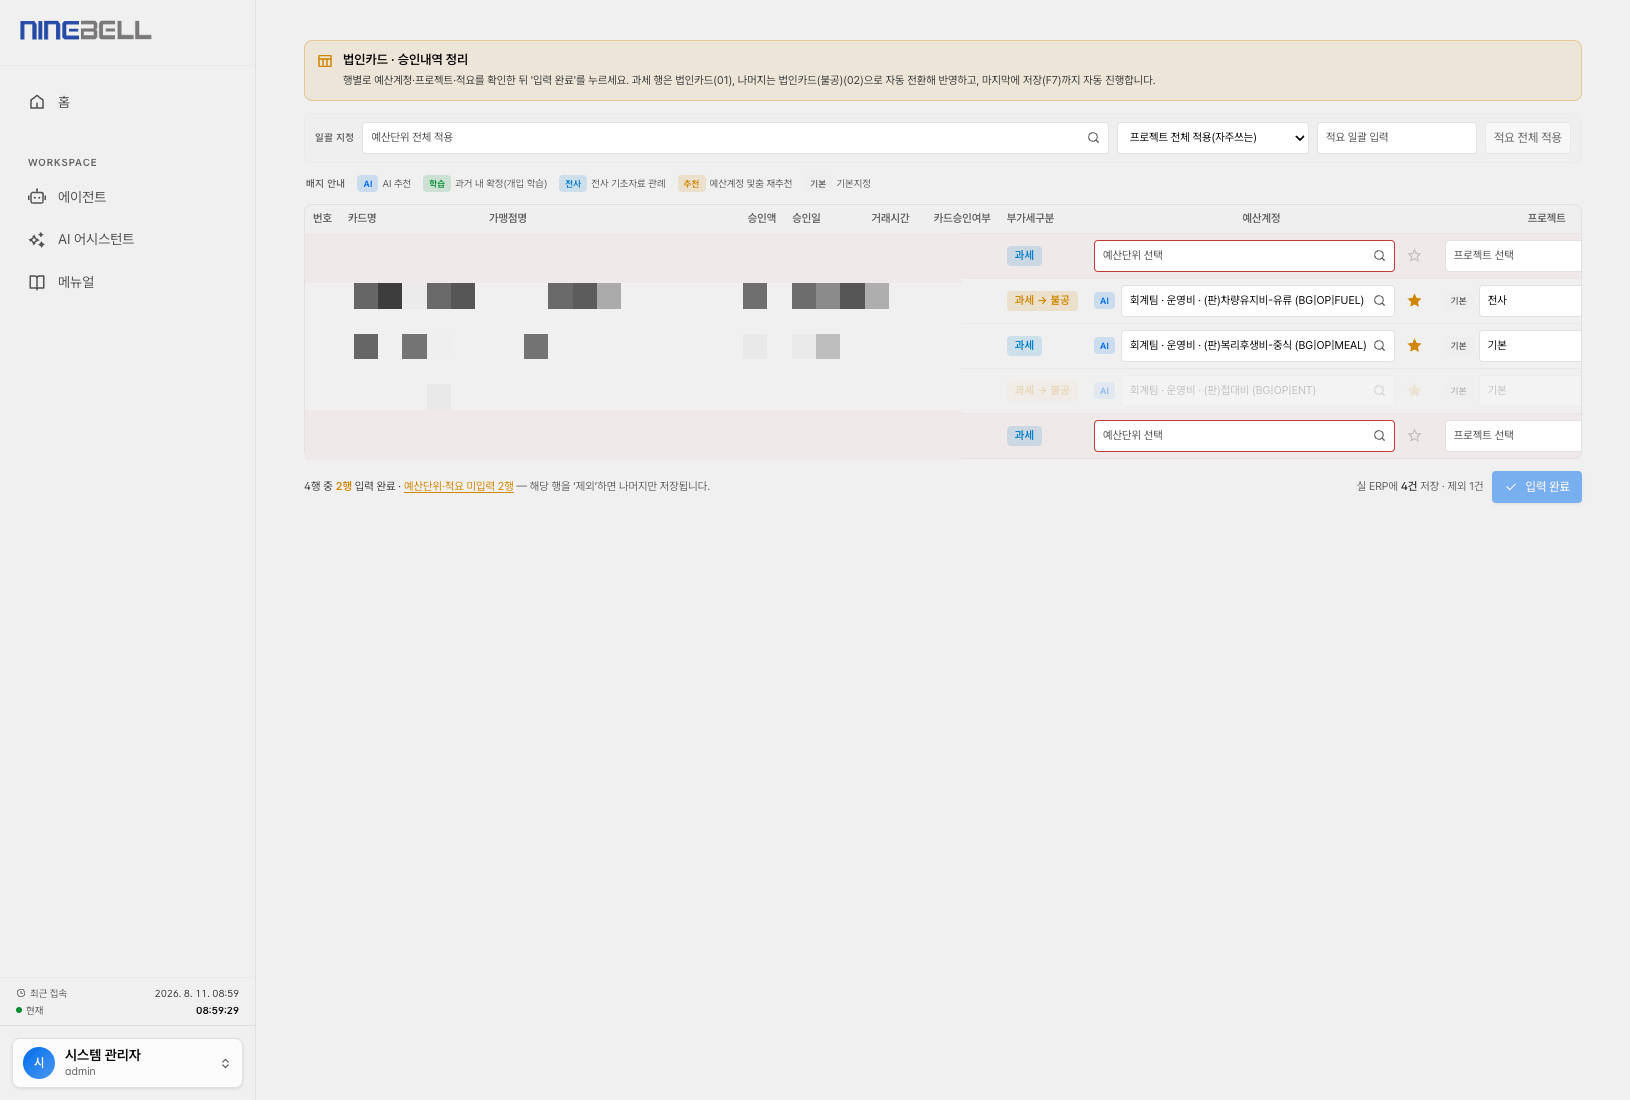
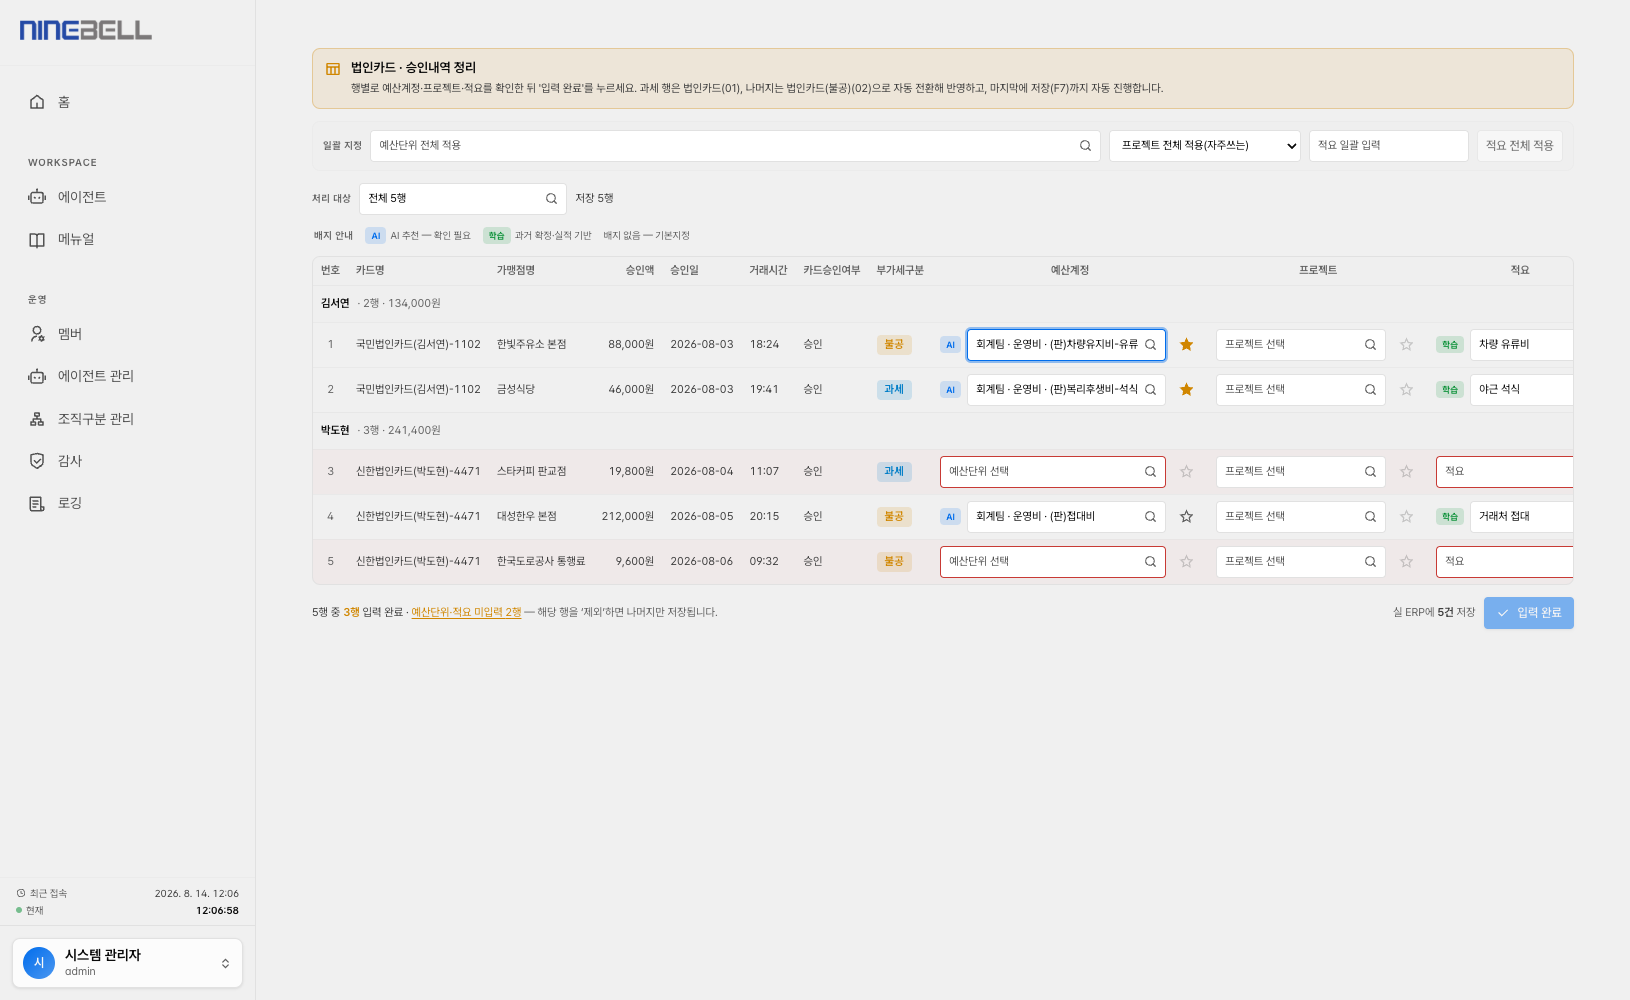
fix(manual): 법인카드 그리드 스크린샷을 더미 데이터로 재촬영 + 그리드 제목 중복 해소
스크린샷
- 종전 이미지는 실 거래 PII 를 픽셀화한 것이라 카드명·가맹점·금액·일자가 전부 검은
  블록이었다(사용자 리포트: 이상해 보인다). 더미 데이터로 같은 화면을 재현해 다시 찍어
  가릴 것이 없다 — 이름·가맹점·카드번호 전부 가공값이다.
- Next dev 인디케이터(좌하단)를 숨긴 상태로 촬영.
- 규격도 다른 자산과 맞췄다(1630×1100 → 1630×1000 — 이 파일만 예외였다).
- 현행 UI 가 함께 반영된다: 배지 5종 → AI·학습 2종, 카드 소유자별 처리 대상 바.

그리드 제목 중복
- 프론트 GridHeader 가 '{title} · 승인내역 정리' 를 그리는데 백엔드도 title 에
  '승인내역 정리' 를 실어 **'승인내역 정리 · 승인내역 정리'** 로 렌더되고 있었다.
  title 을 에이전트 이름('법인카드')으로 바꿔 메뉴얼 이미지와 실제 화면을 일치시킨다.

diff --git a/backend/app/agents/card_collect/nodes/collect.py b/backend/app/agents/card_collect/nodes/collect.py
@@ -332,7 +332,9 @@ def make_collect_rows_node(timeout_s: int | None = None):
                 events,
                 decision_id=decision_id,
                 kind="grid",
-                title="승인내역 정리",
+                # 프론트 GridHeader 가 '· 승인내역 정리'를 덧붙이므로 여기엔 **에이전트 이름만**
+                # 넣는다 — '승인내역 정리'를 넣으면 '승인내역 정리 · 승인내역 정리'가 된다.
+                title="법인카드",
                 prompt=(
                     "행별로 예산단위·프로젝트·적요를 입력한 뒤 '입력 완료'를 누르세요. "
                     "과세 행은 법인카드(01), 나머지는 법인카드(불공)(02)으로 자동 전환해 "
